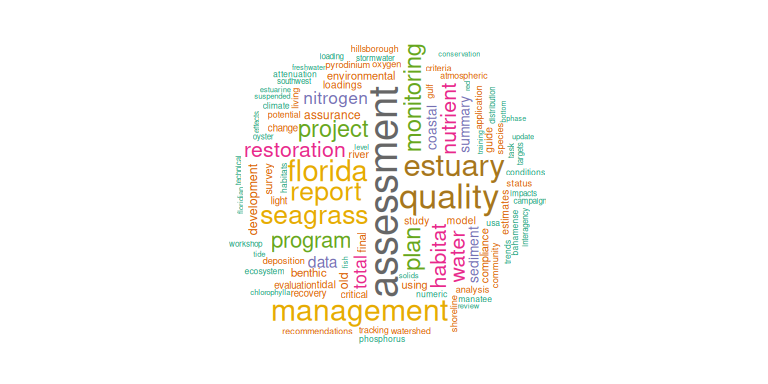
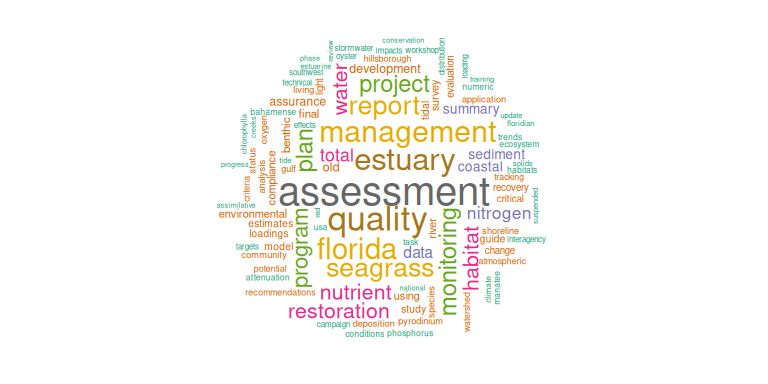
Re-build README and index

Changed region(s): [[0.2812, 0.0938, 0.7188, 0.9062]]

diff --git a/allindex.html b/allindex.html
@@ -376,18 +376,18 @@ educational</h1>
 </div>
 
 
-<p>Created 2026-07-13, .bib file <a href="https://github.com/tbep-tech/tbep-refs/blob/master/allbibs.bib">here</a></p>
+<p>Created 2026-07-14, .bib file <a href="https://github.com/tbep-tech/tbep-refs/blob/master/allbibs.bib">here</a></p>
 <div id="refs" class="references csl-bib-body">
 <div id="ref-tbep1926" class="csl-entry">
-<div class="csl-left-margin">1. </div><div class="csl-right-inline">Cummins Cederberg, Inc. (2026) <em><a href><span class="nocase">Tire Reef Assessment, Plan Development, and
-Permitting: Restoration Plan</span></a></em>, Technical report
-#19-28.</div>
+<div class="csl-left-margin">1. </div><div class="csl-right-inline">Cummins Cederberg, Inc. (2026) <em><span class="nocase">Tire Reef Assessment, Plan Development, and Permitting:
+Restoration Plan</span></em>, Technical report #19-28, Tampa Bay Estuary
+Program, St. Petersburg, Florida. <a href="https://drive.google.com/file/d/1_5gMc7xkUPiHb4rd2_VtjEPjCCd_KbMh/view?usp=drive_link">https://drive.google.com/file/d/1_5gMc7xkUPiHb4rd2_VtjEPjCCd_KbMh/view?usp=drive_link</a>.</div>
 </div>
 <div id="ref-tbep1826" class="csl-entry">
 <div class="csl-left-margin">2. </div><div class="csl-right-inline">T.
 Hays-Lankford, A. Henry, and M. Charbonneau (2026) <em><span>Biston
-Restoration Plan</span></em>, Technical report #18-26, Tampa Bay Estuary
-Program, St. Petersburg, Florida. <a href="https://drive.google.com/file/d/1C4jsbbMkHLBCgXextFPN6duowl9PV4A6/view?usp=drive_link">https://drive.google.com/file/d/1C4jsbbMkHLBCgXextFPN6duowl9PV4A6/view?usp=drive_link</a>.</div>
+Tract Restoration Plan</span></em>, Technical report #18-26, Tampa Bay
+Estuary Program, St. Petersburg, Florida. <a href="https://drive.google.com/file/d/1C4jsbbMkHLBCgXextFPN6duowl9PV4A6/view?usp=drive_link">https://drive.google.com/file/d/1C4jsbbMkHLBCgXextFPN6duowl9PV4A6/view?usp=drive_link</a>.</div>
 </div>
 <div id="ref-edu1726" class="csl-entry">
 <div class="csl-left-margin">3. </div><div class="csl-right-inline">E.
@@ -398,7 +398,7 @@ product #17-26, Tampa Bay Estuary Program, St. Petersburg, Florida. <a href="htt
 </div>
 <div id="ref-tbep1626" class="csl-entry">
 <div class="csl-left-margin">4. </div><div class="csl-right-inline">K.
-Barrera (2026) <em><span class="nocase">Septic to Sewer Converstion
+Barrera (2026) <em><span class="nocase">Septic to Sewer Conversion
 Project: Assets and Lessons Learned</span></em>, Technical report
 #16-26, Tampa Bay Estuary Program, St. Petersburg, Florida. <a href="https://drive.google.com/file/d/1tyrRBLBTUHeObf-KJ8grD7wdHCXSCmjw/view?usp=drive_link">https://drive.google.com/file/d/1tyrRBLBTUHeObf-KJ8grD7wdHCXSCmjw/view?usp=drive_link</a>.</div>
 </div>

diff --git a/techindex.html b/techindex.html
@@ -375,22 +375,22 @@ display: none;
 </div>
 
 
-<p>Created 2026-07-13, .bib file <a href="https://github.com/tbep-tech/tbep-refs/blob/master/techbibs.bib">here</a></p>
+<p>Created 2026-07-14, .bib file <a href="https://github.com/tbep-tech/tbep-refs/blob/master/techbibs.bib">here</a></p>
 <div id="refs" class="references csl-bib-body">
 <div id="ref-tbep1926" class="csl-entry">
-<div class="csl-left-margin">1. </div><div class="csl-right-inline">Cummins Cederberg, Inc. (2026) <em><a href><span class="nocase">Tire Reef Assessment, Plan Development, and
-Permitting: Restoration Plan</span></a></em>, Technical report
-#19-28.</div>
+<div class="csl-left-margin">1. </div><div class="csl-right-inline">Cummins Cederberg, Inc. (2026) <em><span class="nocase">Tire Reef Assessment, Plan Development, and Permitting:
+Restoration Plan</span></em>, Technical report #19-28, Tampa Bay Estuary
+Program, St. Petersburg, Florida. <a href="https://drive.google.com/file/d/1_5gMc7xkUPiHb4rd2_VtjEPjCCd_KbMh/view?usp=drive_link">https://drive.google.com/file/d/1_5gMc7xkUPiHb4rd2_VtjEPjCCd_KbMh/view?usp=drive_link</a>.</div>
 </div>
 <div id="ref-tbep1826" class="csl-entry">
 <div class="csl-left-margin">2. </div><div class="csl-right-inline">T.
 Hays-Lankford, A. Henry, and M. Charbonneau (2026) <em><span>Biston
-Restoration Plan</span></em>, Technical report #18-26, Tampa Bay Estuary
-Program, St. Petersburg, Florida. <a href="https://drive.google.com/file/d/1C4jsbbMkHLBCgXextFPN6duowl9PV4A6/view?usp=drive_link">https://drive.google.com/file/d/1C4jsbbMkHLBCgXextFPN6duowl9PV4A6/view?usp=drive_link</a>.</div>
+Tract Restoration Plan</span></em>, Technical report #18-26, Tampa Bay
+Estuary Program, St. Petersburg, Florida. <a href="https://drive.google.com/file/d/1C4jsbbMkHLBCgXextFPN6duowl9PV4A6/view?usp=drive_link">https://drive.google.com/file/d/1C4jsbbMkHLBCgXextFPN6duowl9PV4A6/view?usp=drive_link</a>.</div>
 </div>
 <div id="ref-tbep1626" class="csl-entry">
 <div class="csl-left-margin">3. </div><div class="csl-right-inline">K.
-Barrera (2026) <em><span class="nocase">Septic to Sewer Converstion
+Barrera (2026) <em><span class="nocase">Septic to Sewer Conversion
 Project: Assets and Lessons Learned</span></em>, Technical report
 #16-26, Tampa Bay Estuary Program, St. Petersburg, Florida. <a href="https://drive.google.com/file/d/1tyrRBLBTUHeObf-KJ8grD7wdHCXSCmjw/view?usp=drive_link">https://drive.google.com/file/d/1tyrRBLBTUHeObf-KJ8grD7wdHCXSCmjw/view?usp=drive_link</a>.</div>
 </div>

diff --git a/eduindex.html b/eduindex.html
@@ -375,7 +375,7 @@ display: none;
 </div>
 
 
-<p>Created 2026-07-13, .bib file <a href="https://github.com/tbep-tech/tbep-refs/blob/master/edubibs.bib">here</a></p>
+<p>Created 2026-07-14, .bib file <a href="https://github.com/tbep-tech/tbep-refs/blob/master/edubibs.bib">here</a></p>
 <div id="refs" class="references csl-bib-body">
 <div id="ref-edu1726" class="csl-entry">
 <div class="csl-left-margin">1. </div><div class="csl-right-inline">E.